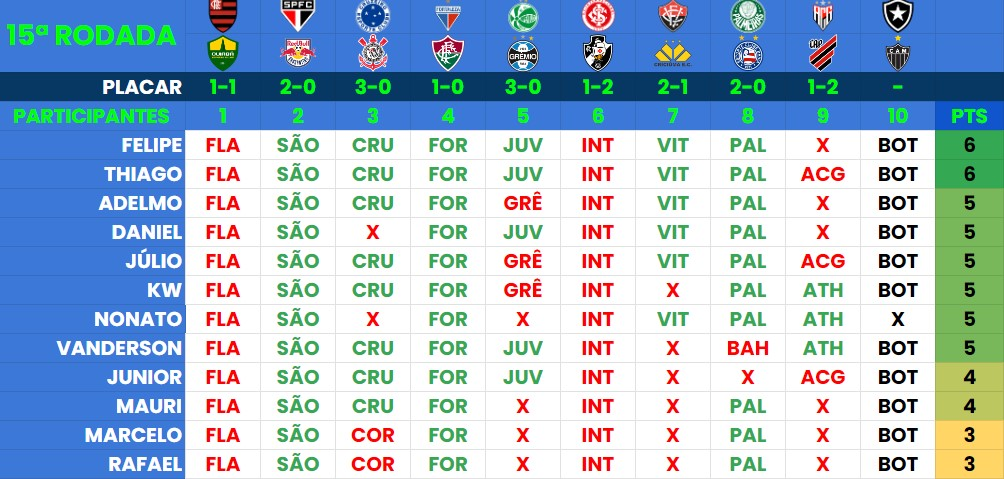
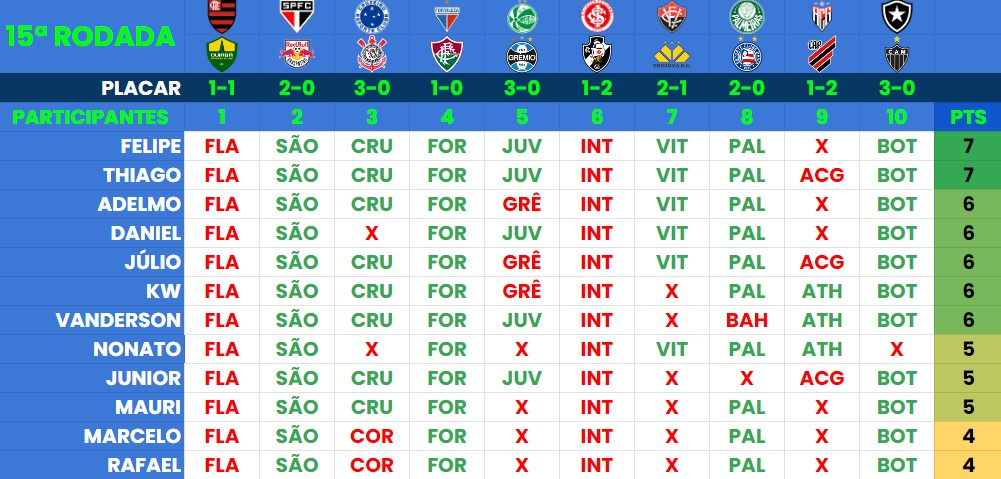
U

diff --git a/index.html b/index.html
@@ -51,10 +51,10 @@
           <img src="./assets/Round15.jpg" alt="Logo do Campeonato Brasileiro 2022" />
         </div>
         <div class="text">
-          <h2 class="title"><a href="./predictor.html">MERCADO FECHADO</a>
+          <h2 class="title"><a href="./predictor.html">Felipe e Thiago são os melhores da Rodada 15</a>
           </h2>
           <p>
-            Abola tá rolando...
+            Com os resultados Adelmo continua na liderança do bolão.
           </p>
           <a class="button" href="./predictor.html">Resumo da 15ª Rodada</a>
         </div>
@@ -177,7 +177,7 @@
           <div class="content">
             <h2 class="rank"><small>#</small>1</h2>
             <h4>Adelmo</h4>
-            <p>69 Pontos</p>
+            <p>75 Pontos</p>
           </div>
         </div>
         <div class="list">
@@ -187,7 +187,7 @@
           <div class="content">
             <h2 class="rank"><small>#</small>2</h2>
             <h4>Júnior</h4>
-            <p>69 Pontos</p>
+            <p>74 Pontos</p>
           </div>
         </div>
         <div class="list">
@@ -197,17 +197,17 @@
           <div class="content">
             <h2 class="rank"><small>#</small>3</h2>
             <h4>KW</h4>
-            <p>67 Pontos</p>
+            <p>73 Pontos</p>
           </div>
         </div>
         <div class="list">
           <div class="imgBx">
-            <img src="./assets/fotos/palmeiras.png">
+            <img src="./assets/fotos/ceará.png">
           </div>
           <div class="content">
             <h2 class="rank"><small>#</small>4</h2>
-            <h4>Marcelo</h4>
-            <p>64 Pontos</p>
+            <h4>Thiago</h4>
+            <p>70 Pontos</p>
           </div>
         </div>
         <div class="list">
@@ -217,17 +217,7 @@
           <div class="content">
             <h2 class="rank"><small>#</small>5</h2>
             <h4>Mauri</h4>
-            <p>64 Pontos</p>
-          </div>
-        </div>
-        <div class="list">
-          <div class="imgBx">
-            <img src="./assets/fotos/ceará.png">
-          </div>
-          <div class="content">
-            <h2 class="rank"><small>#</small>6</h2>
-            <h4>Thiago</h4>
-            <p>63 Pontos</p>
+            <p>69 Pontos</p>
           </div>
         </div>
         <div class="list">
@@ -235,19 +225,19 @@
             <img src="./assets/fotos/corinthians.png">
           </div>
           <div class="content">
-            <h2 class="rank"><small>#</small>7</h2>
+            <h2 class="rank"><small>#</small>6</h2>
             <h4>Daniel</h4>
-            <p>63 Pontos</p>
+            <p>69 Pontos</p>
           </div>
         </div>
         <div class="list">
           <div class="imgBx">
-            <img src="./assets/fotos/fortaleza.png">
+            <img src="./assets/fotos/palmeiras.png">
           </div>
           <div class="content">
-            <h2 class="rank"><small>#</small>8</h2>
-            <h4>Júlio César</h4>
-            <p>61 Pontos</p>
+            <h2 class="rank"><small>#</small>7</h2>
+            <h4>Marcelo</h4>
+            <p>68 Pontos</p>
           </div>
         </div>
         <div class="list">
@@ -255,9 +245,19 @@
             <img src="./assets/fotos/santos.png">
           </div>
           <div class="content">
-            <h2 class="rank"><small>#</small>9</h2>
+            <h2 class="rank"><small>#</small>8</h2>
             <h4>Felipe</h4>
-            <p>61 Pontos</p>
+            <p>68 Pontos</p>
+          </div>
+        </div>
+        <div class="list">
+          <div class="imgBx">
+            <img src="./assets/fotos/fortaleza.png">
+          </div>
+          <div class="content">
+            <h2 class="rank"><small>#</small>9</h2>
+            <h4>Júlio César</h4>
+            <p>67 Pontos</p>
           </div>
         </div>
         <div class="list">
@@ -267,7 +267,7 @@
           <div class="content">
             <h2 class="rank"><small>#</small>10</h2>
             <h4>Nonato</h4>
-            <p>61 Pontos</p>
+            <p>66 Pontos</p>
           </div>
         </div>
         <div class="list">
@@ -277,7 +277,7 @@
           <div class="content">
             <h2 class="rank"><small>#</small>11</h2>
             <h4>Rafael</h4>
-            <p>60 Pontos</p>
+            <p>64 Pontos</p>
           </div>
         </div>
         <div class="list">
@@ -287,7 +287,7 @@
           <div class="content">
             <h2 class="rank"><small>#</small>12</h2>
             <h4>Vanderson</h4>
-            <p>57 Pontos</p>
+            <p>63 Pontos</p>
           </div>
         </div>
       </div>
